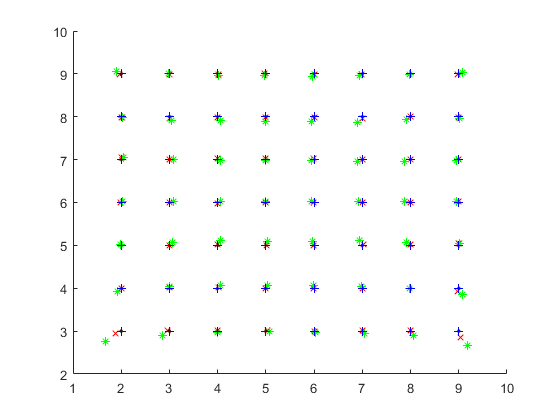
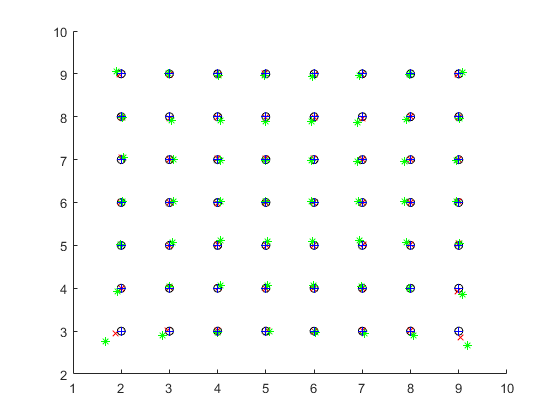
修正畫error的部分

diff --git a/Paper TPS/Error.m b/Paper TPS/Error.m
@@ -51,7 +51,7 @@ UnDistort_Predict(:, 2) = UnDistort_Predict_Y;
 figure();
 hold on;
 axis([1, 10, 2, 10]);
-scatter(Valid_Calibration(:, 3), Valid_Calibration(:, 4), 'k.');
+scatter(Valid_Calibration(:, 3), Valid_Calibration(:, 4), 'ko');
 scatter(Predict(:, 1), Predict(:, 2), 'rx');
 scatter(CalibrationPredict(:, 1), CalibrationPredict(:, 2), 'g*')
 scatter(Valid_Calibration(:, 3), Valid_Calibration(:, 4), 'b+');
